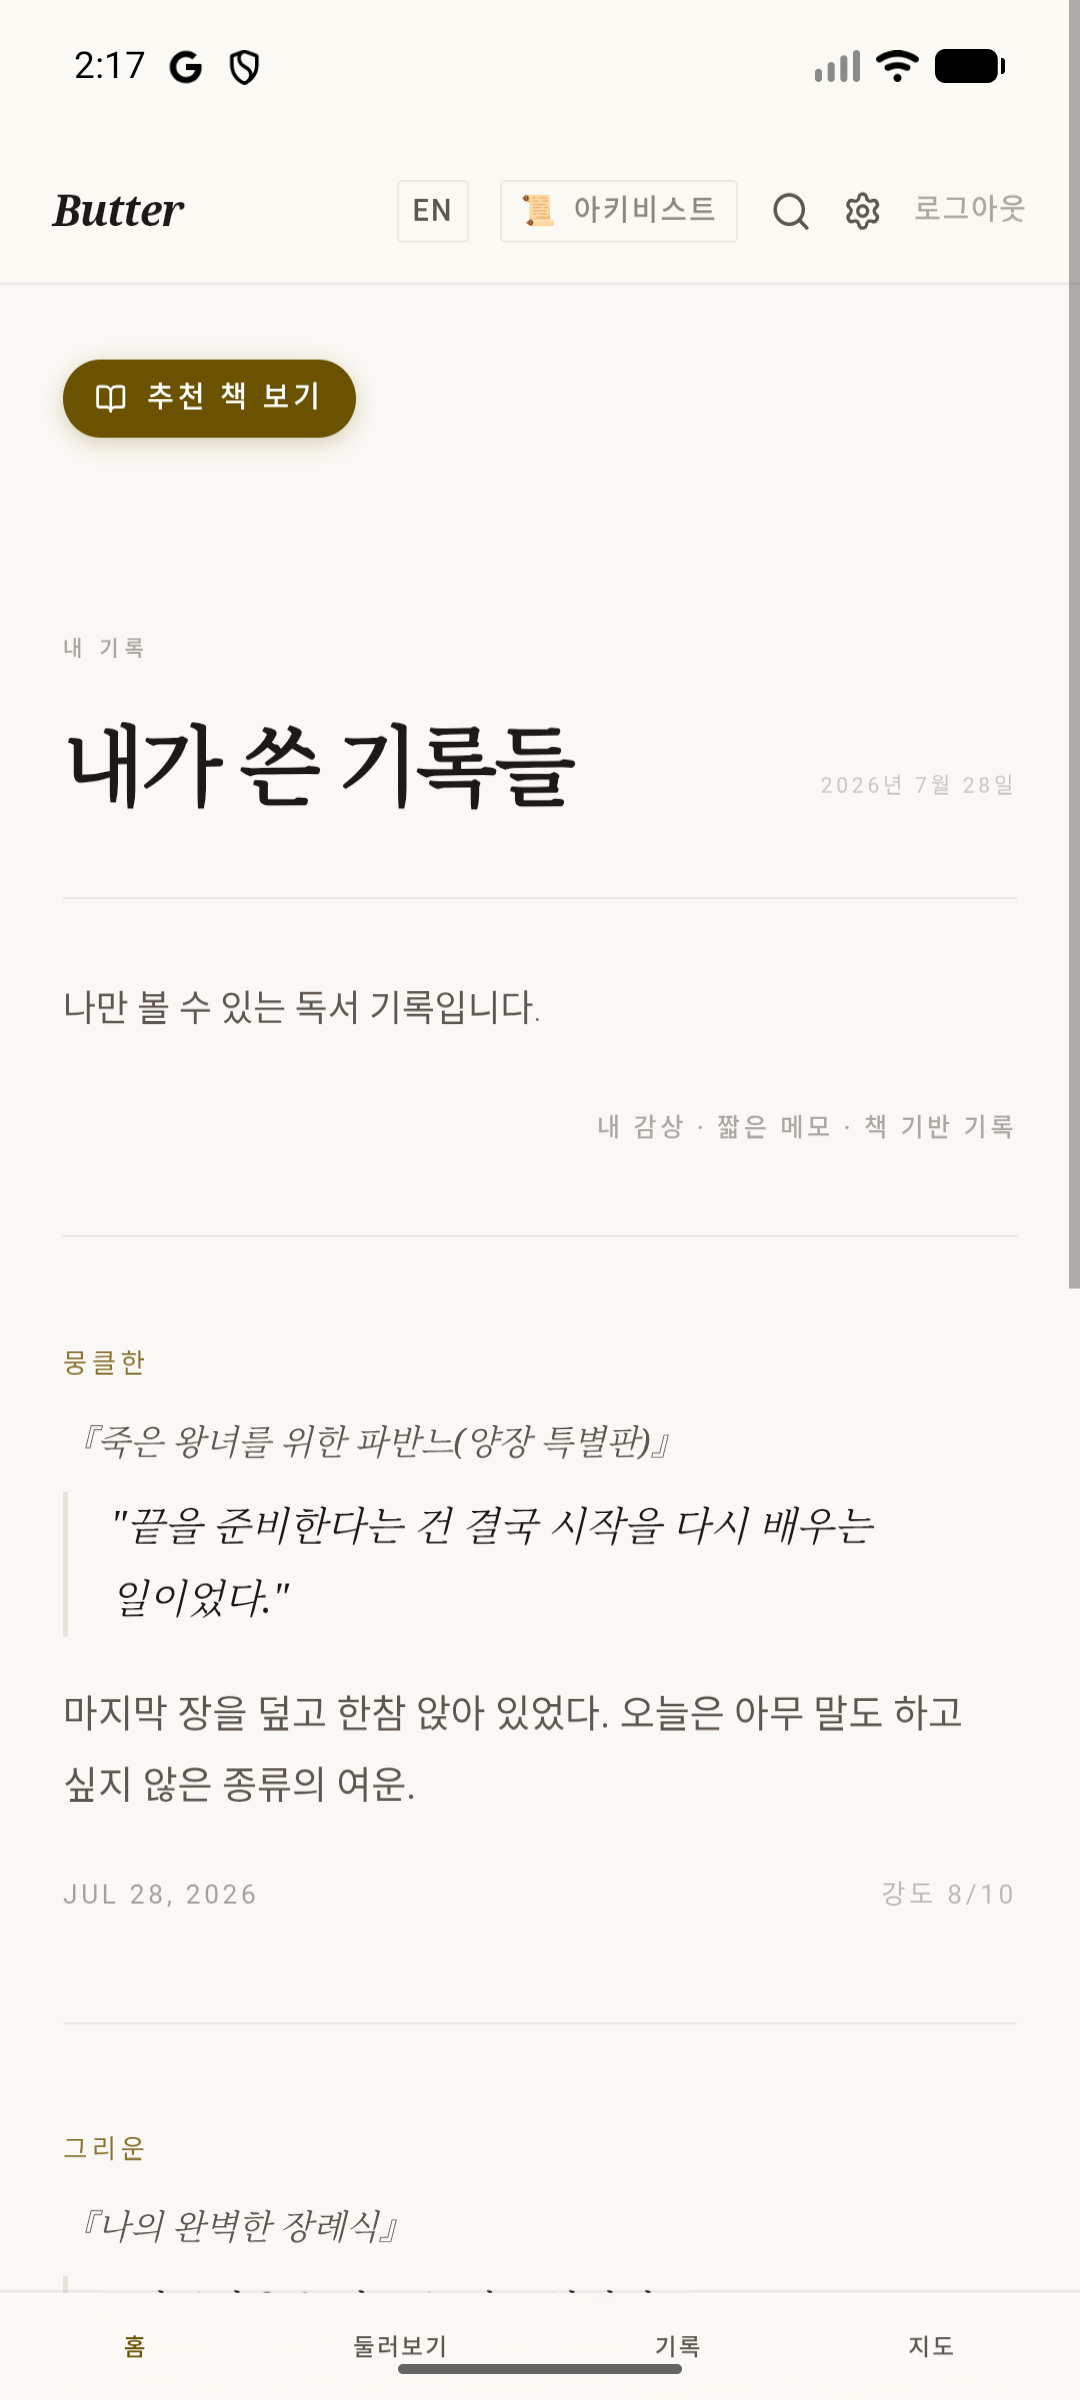
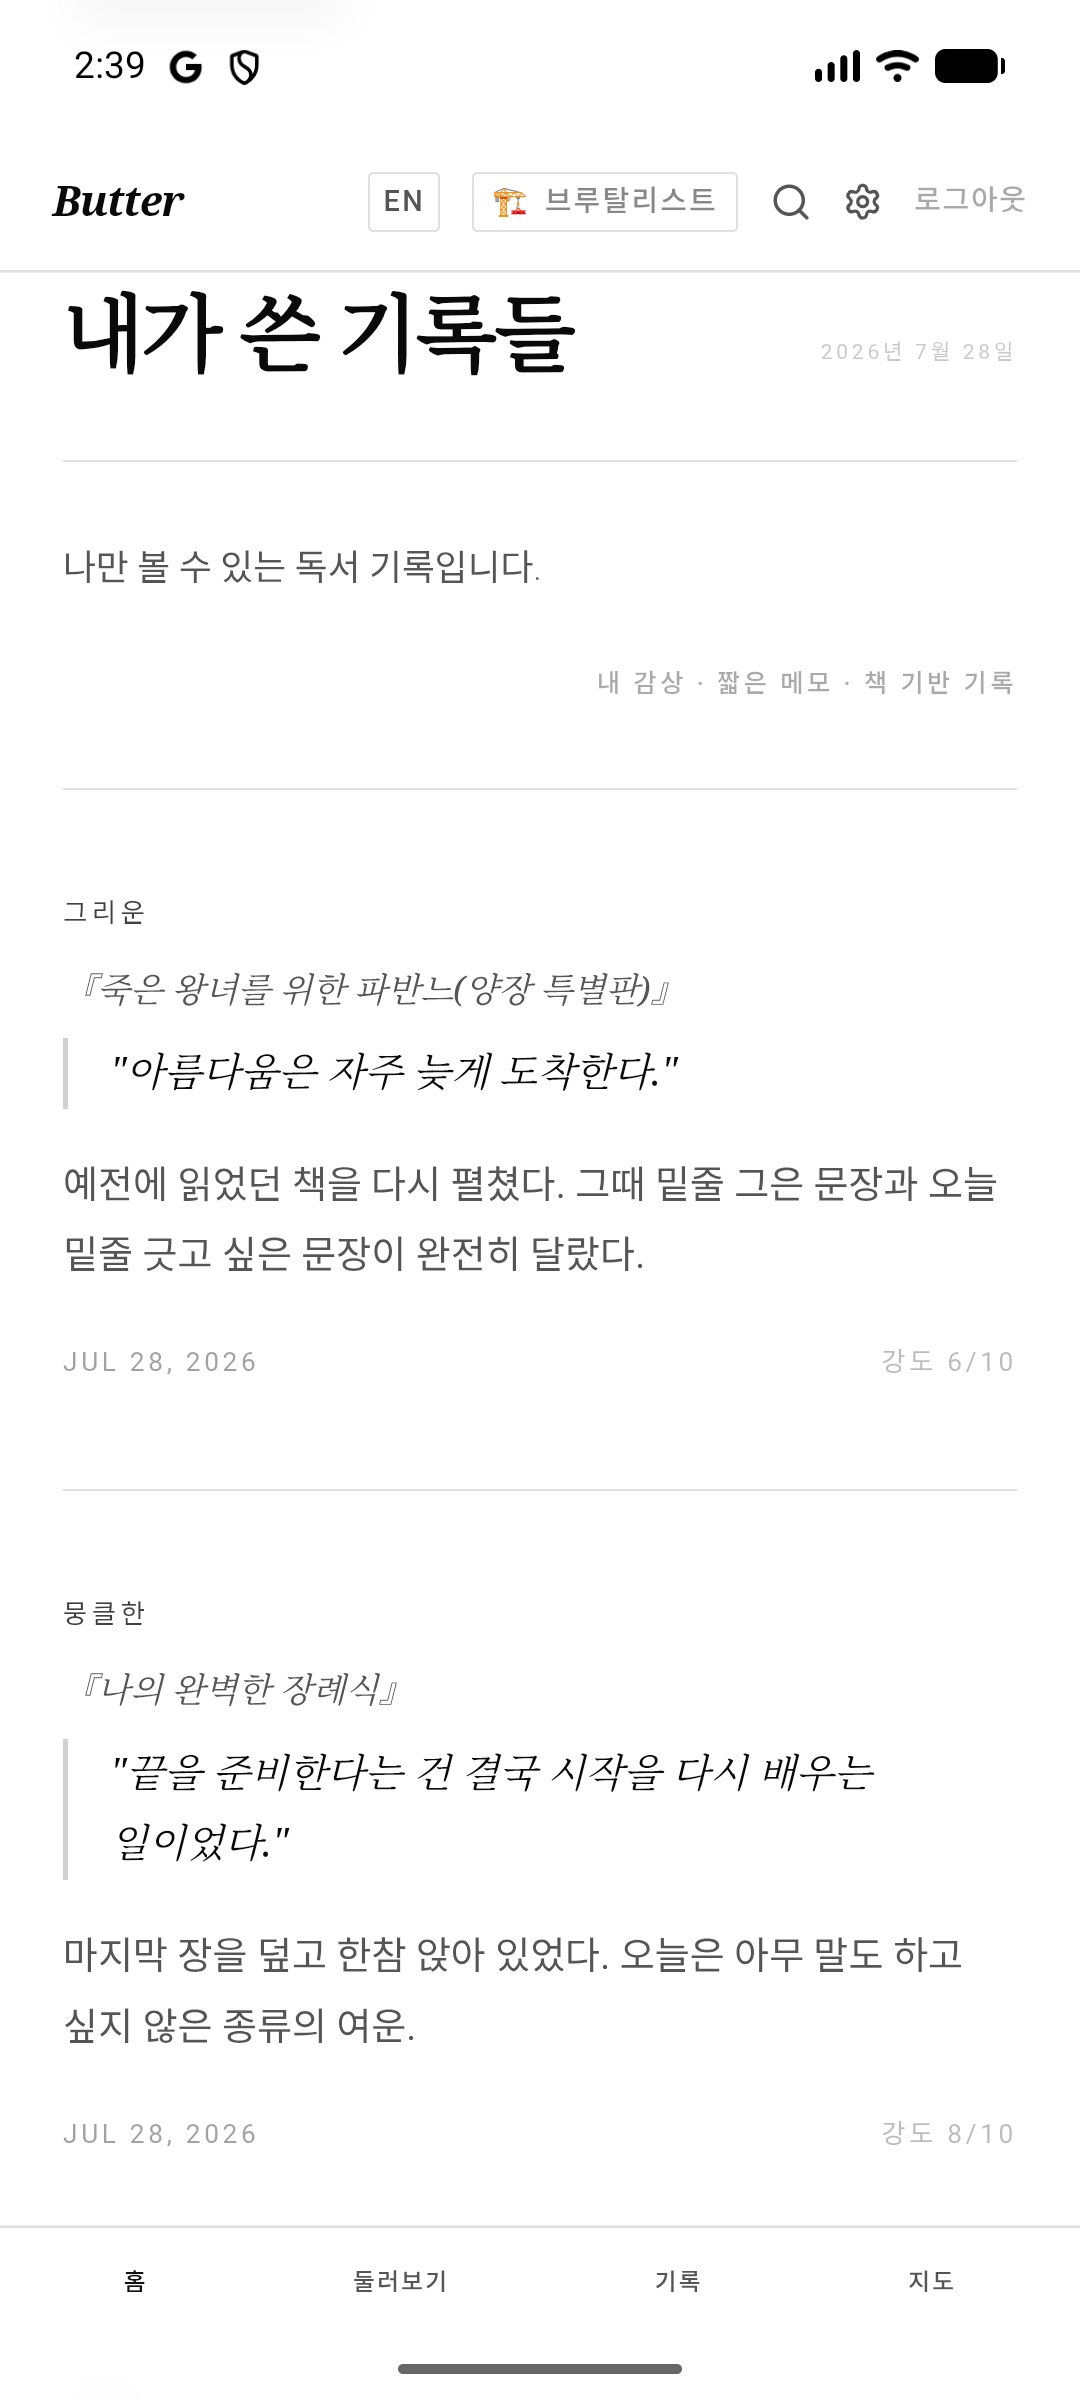
스토어 스크린샷을 기본 테마(브루탈리스트)로 재촬영
기본 테마를 흰색으로 바꾼 뒤 스토어 이미지가 크림색이라 첫인상이 어긋났다.
앱 화면 4장을 흰 테마로 다시 찍고 합성 팔레트도 중립 톤으로 교체.

⚠ 캔버스를 순백으로 두면 흰 기기 화면이 배경에 묻혀 경계가 사라진다.
   배경은 살짝 어두운 회색(#f3f3f3 → #e8e8e8), 기기는 흰색으로 띄웠다.
강조색은 올리브골드 → 검정 (인용부호·감정칩).

부수 효과로 책 표지가 흰 배경에서 훨씬 선명해졌다.

diff --git a/scripts/make-store-screenshots.py b/scripts/make-store-screenshots.py
@@ -21,12 +21,15 @@ SRC = os.path.join(ROOT, "scripts", "screenshot-src")
 OUT_A = os.path.join(ROOT, "store-assets", "screenshots", "android")
 OUT_I = os.path.join(ROOT, "store-assets", "screenshots", "ios-6.9")
 
-# ── 브랜드 컬러 ───────────────────────────────────────────────────────────
-CREAM = (250, 248, 244)
-SURFACE = (245, 242, 235)
-PRIMARY = (107, 82, 0)
-TEXT = (28, 26, 23)
-MUTED = (94, 87, 79)
+# ── 캔버스 팔레트 ─────────────────────────────────────────────────────────
+# 기본 테마(브루탈리스트 = 흰 배경)에 맞춘 중립 톤.
+# ⚠ 캔버스를 순백으로 하면 흰 기기 화면이 배경에 묻혀 경계가 사라진다.
+#    그래서 배경은 살짝 어두운 회색으로 두고 기기를 흰색으로 띄운다.
+CREAM = (243, 243, 243)     # 캔버스 상단
+SURFACE = (232, 232, 232)   # 캔버스 하단
+PRIMARY = (17, 17, 17)      # 강조 (인용부호·감정칩)
+TEXT = (10, 10, 10)
+MUTED = (85, 85, 85)
 
 KR_BOLD = "/System/Library/Fonts/AppleSDGothicNeo.ttc"
 KR_SERIF = "/System/Library/Fonts/Supplemental/AppleMyungjo.ttf"
